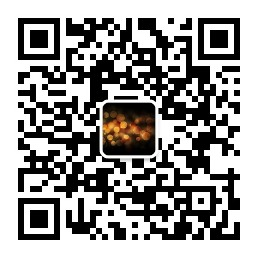
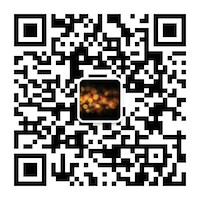
Update

Changed region(s): [[0.06, 0.06, 0.93, 0.93]]

diff --git a/css/default.css b/css/default.css
@@ -142,7 +142,7 @@ h3.about {color:#777;margin-top:20px;font-size:22px;margin-bottom:10px}
 .home-me:hover { color:#fff; text-decoration:none; }
 .home-contact { color:#fff; margin-top:2px; background:#000; padding:8px 0 7px; text-align:center; display:none;}
 .home-contact a { width:30px; display:inline-block; }
-.home-contact img { width:258px; }
+.home-contact img { width:200px; }
 
 
 @media screen and (max-width: 750px){
